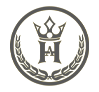
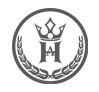
update

Changed region(s): [[0.0909, 0.0652, 0.9091, 0.9348], [0.3333, 0.1522, 0.697, 0.6957]]

diff --git a/index.html b/index.html
@@ -120,13 +120,13 @@
     <section class="hidden-bar">
         <div class="inner-box">
             <div class="upper-box">
-                <div class="nav-logo"><a href="index.html"><img src="images/logo-4.png" alt=""></a></div>
+                <div class="nav-logo"><a href="index.html"><img src="/images/logo-2.png" alt=""></a></div>
                 <div class="close-btn"><i class="icon fa fa-times"></i></div>
             </div>
 
             <div class="text-box">
                 <h4 class="title">HÙNG ANH</h4>
-                <div class="text">Dơn vị xây dựng và phát triển Website</div>
+                <div class="text">Đơn vị xây dựng và phát triển Website</div>
             </div>
 
             <ul class="contact-list-one">
@@ -717,10 +717,10 @@
         <div class="sponsors-outer">
             <!--clients carousel-->
             <ul class="clients-carousel owl-carousel owl-theme">
+                <li class="client-block-two"> <a href="https://hunganhdeveloper.github.io/Portfolio/"><img src="images/clients/2.png" alt=""></a> </li>
                 <li class="client-block-two"> <a href="https://hunganhdeveloper.github.io/Portfolio/"><img src="images/clients/2-1.png" alt=""></a> </li>
                 <li class="client-block-two"> <a href="https://hunganhdeveloper.github.io/Portfolio/"><img src="images/clients/2-2.png" alt=""></a> </li>
-                <li class="client-block-two"> <a href="https://hunganhdeveloper.github.io/Portfolio/"><img src="images/clients/2-3.png" alt=""></a> </li>
-                <li class="client-block-two"> <a href="https://hunganhdeveloper.github.io/Portfolio/"><img src="images/clients/2-4.png" alt=""></a> </li>
+                <li class="client-block-two"> <a href="https://hunganhdeveloper.github.io/Portfolio/"><img src="images/clients/3.png" alt=""></a> </li>
             </ul>
         </div>
     </div>
@@ -786,7 +786,7 @@
                 <div class="gallery-block-four">
                     <div class="inner-box">
                         <div class="image-box">
-                            <figure class="image"><img src="images/resource/gallery2-1.jpg" alt="Image"></a></figure>
+                            <figure class="image"><img src="images/resource/gallery2-4.jpg" alt="Image"></a></figure>
                         </div>
                     </div>
                 </div>
@@ -795,7 +795,7 @@
                 <div class="gallery-block-four">
                     <div class="inner-box">
                         <div class="image-box">
-                            <figure class="image"><img src="images/resource/gallery2-2.jpg" alt="Image"></a></figure>
+                            <figure class="image"><img src="images/resource/gallery2-5.jpg" alt="Image"></a></figure>
                         </div>
                     </div>
                 </div>
@@ -804,7 +804,7 @@
                 <div class="gallery-block-four">
                     <div class="inner-box">
                         <div class="image-box">
-                            <figure class="image"><img src="images/resource/gallery2-3.jpg" alt="Image"></a></figure>
+                            <figure class="image"><img src="images/resource/gallery2-6.jpg" alt="Image"></a></figure>
                         </div>
                     </div>
                 </div>
@@ -825,7 +825,7 @@
                     <div class="footer-column col-xl-6 col-lg-4 col-md-6 col-sm-12 order-xl-1">
                         <div class="footer-widget about-widget">
                             <div class="widget-content">
-                                <div class="logo"><a href="#home"><img src="images/logo-6.png" alt="" title="Wendola"></a></div>
+                                <div class="logo"><a href="#home"><img src="images/logo-7.png" alt="" title="Wendola"></a></div>
                                 <div class="text">Mọi sự hiện diện của quý khách là niềm vinh hạnh của chúng tôi !<br> Rất hân hạnh được đón tiếp !</div>
                             </div>
                         </div>
@@ -837,9 +837,9 @@
                             <h6 class="widget-title">Thông Tin Trao Đổi</h6>
                             <div class="widget-content">
                                 <ul class="contact-list-two">
-                                    <li><i class="icon fa fa-envelope"></i><a href="#"><span class="__cf_email__" data-cfemail="4e3b3d2b3c202f232b0e2a21232f2720602d2123">[email&#160;protected]</span></a></li>
-                                    <li><i class="icon fa fa-mobile"></i><a href="#">+(84) 343 081 048</a></li>
-                                    <li><i class="icon fa fa-map-marker-alt"></i><a href="#">Website</a></li>
+                                    <li><i class="icon fa fa-envelope"></i><a href="https://mail.google.com/mail/u/0/?tab=rm&ogbl#inbox?compose=lqrsljcHmxFMwDRkGjPQggJGGGKbNplMKtQKWHmhBqzsxKrksszVWdBnwwTfrjSVDxMdJzSSRxXQxlknK"><span class="__cf_email__" data-cfemail="4e3b3d2b3c202f232b0e2a21232f2720602d2123">Hunganhlux@gmail.com</span></a></li>
+                                    <li><i class="icon fa fa-mobile"></i><a href="tel:034301048">+(84) 343 081 048</a></li>
+                                    <li><i class="icon fa fa-map-marker-alt"></i><a href="https://hunganhdeveloper.github.io/Portfolio/">Website</a></li>
                                 </ul>
                             </div>
                         </div>
@@ -851,8 +851,8 @@
                             <h6 class="widget-title">Mạng Xã Hội</h6>
                             <div class="widgets-content">
                                 <ul class="social-icon-one">
-                                    <li><a href="#"><i class="icon fab fa-facebook-f"></i></a></li>
-                                    <li><a href="#"><i class="icon fab fa-google-plus"></i></a></li>
+                                    <li><a href="https://www.facebook.com/HungAnh999/?locale=vi_VN"><i class="icon fab fa-facebook-f"></i></a></li>
+                                    <li><a href="https://mail.google.com/mail/u/0/?tab=rm&ogbl#inbox?compose=lqrsljcHmxFMwDRkGjPQggJGGGKbNplMKtQKWHmhBqzsxKrksszVWdBnwwTfrjSVDxMdJzSSRxXQxlknK"><i class="icon fab fa-google-plus"></i></a></li>
                                     <li><a href="#"><i class="icon fab fa-twitter"></i></a></li>
                                 </ul>
                             </div>

diff --git a/css/style.css b/css/style.css
@@ -6178,6 +6178,7 @@ Section Title
 ====================================================================
 
 ***/
+
 .news-section {
   position: relative;
   padding: 120px 0;
@@ -6382,229 +6383,6 @@ Section Title
     margin-left: 0;
   }
 }
-
-/*** 
-
-====================================================================
-/*** 
-
-====================================================================
-    Fun Fact Section
-====================================================================
-
-***/
-.fun-fact-section {
-  position: relative;
-  padding: 120px 0 50px;
-}
-
-.counter-block {
-  position: relative;
-  margin-bottom: 70px;
-}
-.counter-block:first-child .inner:before {
-  display: none;
-}
-@media (max-width: 1199.98px) {
-  .counter-block:nth-child(odd) .inner::before {
-    display: none;
-  }
-}
-.counter-block .inner {
-  position: relative;
-  -webkit-transition: all 300ms ease;
-  transition: all 300ms ease;
-}
-.counter-block .inner:before {
-  content: "";
-  position: absolute;
-  top: 45px;
-  left: -15px;
-  width: 13px;
-  height: 80px;
-  background-image: url(../images/icons/divider-4.png);
-}
-@media (max-width: 767.98px) {
-  .counter-block .inner:before {
-    display: none;
-  }
-}
-.counter-block .inner:hover .count-box {
-  color: var(--theme-color7);
-  -webkit-transform: translateY(10px);
-          transform: translateY(10px);
-}
-.counter-block .content {
-  position: relative;
-  text-align: center;
-}
-.counter-block .content .icon-flower-30 {
-  position: absolute;
-  top: -25px;
-  left: 50%;
-  -webkit-transform: translateX(-50%);
-          transform: translateX(-50%);
-}
-.counter-block .count-box {
-  font-size: 80px;
-  line-height: 1em;
-  font-weight: 600;
-  font-family: var(--title-font);
-  color: var(--theme-color8);
-  margin-bottom: 20px;
-  -webkit-transition: all 300ms ease;
-  transition: all 300ms ease;
-}
-.counter-block .counter-title {
-  font-size: var(--body-font-size);
-  line-height: 1.6em;
-  font-weight: 400;
-  color: var(--theme-color-dark);
-  font-family: var(--text-font);
-  margin-bottom: 0;
-}
-
-/*** 
-
-====================================================================
-    Pricing Section
-====================================================================
-
-***/
-.pricing-section {
-  position: relative;
-  padding: 120px 0 90px;
-}
-.pricing-section .icon-leaves-36 {
-  margin: 20px auto 0;
-}
-
-.pricing-block {
-  position: relative;
-  margin-bottom: 30px;
-}
-.pricing-block .inner-box {
-  position: relative;
-  padding-left: 100px;
-}
-@media (max-width: 1199.98px) {
-  .pricing-block .inner-box {
-    padding-left: 0;
-    background-color: #252c43;
-    outline: 1px solid #cdcdcd;
-    border: 9px solid var(--theme-color-light);
-    padding: 20px 20px 50px;
-  }
-}
-.pricing-block .inner-box:hover .image-box .image img {
-  -webkit-transform: scale(1.1);
-          transform: scale(1.1);
-}
-.pricing-block .inner-box:hover .content-box {
-  -webkit-box-shadow: 0 10px 30px rgba(0, 0, 0, 0.1);
-          box-shadow: 0 10px 30px rgba(0, 0, 0, 0.1);
-}
-.pricing-block .inner-box .icon-flower-29 {
-  position: absolute;
-  bottom: 10px;
-  right: 25px;
-  z-index: 1;
-}
-.pricing-block .inner-box .image-box .image {
-  position: absolute;
-  top: 45px;
-  left: 0;
-  z-index: 3;
-  overflow: hidden;
-}
-@media (max-width: 1199.98px) {
-  .pricing-block .inner-box .image-box .image {
-    position: relative;
-    top: 0;
-  }
-}
-.pricing-block .inner-box .image-box .image img {
-  width: 100%;
-  -webkit-transition: all 300ms ease;
-  transition: all 300ms ease;
-}
-.pricing-block .inner-box .content-box {
-  position: relative;
-  background-color: #252c43;
-  padding: 60px 40px 55px 210px;
-  outline: 1px solid #cdcdcd;
-  border: 9px solid var(--theme-color-light);
-  -webkit-transition: all 300ms ease;
-  transition: all 300ms ease;
-}
-@media (max-width: 1399.98px) {
-  .pricing-block .inner-box .content-box {
-    padding-left: 190px;
-    padding-right: 20px;
-  }
-}
-@media (max-width: 1199.98px) {
-  .pricing-block .inner-box .content-box {
-    padding: 0;
-    border: none;
-    outline: none;
-    background-color: transparent;
-    padding-top: 20px;
-  }
-}
-.pricing-block .inner-box .content-box .title {
-  color: var(--theme-color-light);
-}
-.pricing-block .inner-box .content-box .features-list {
-  position: relative;
-  margin-bottom: 30px;
-  z-index: 2;
-}
-.pricing-block .inner-box .content-box .features-list li {
-  position: relative;
-  padding-left: 25px;
-  font-size: 16px;
-  color: var(--theme-color-light);
-  margin-bottom: 10px;
-}
-@media (max-width: 575.98px) {
-  .pricing-block .inner-box .content-box .features-list li {
-    font-size: 14px;
-  }
-}
-.pricing-block .inner-box .content-box .features-list li i {
-  position: absolute;
-  left: 0;
-  top: 5px;
-  font-size: 18px;
-  text-align: center;
-  width: 14px;
-  height: 16px;
-  line-height: 16px;
-  color: var(--theme-color8);
-}
-.pricing-block .inner-box .content-box .price {
-  color: var(--theme-color-light);
-  font-size: 26px;
-  font-weight: 600;
-  margin-bottom: 10px;
-  font-family: var(--text-font);
-  z-index: 2;
-}
-.pricing-block .inner-box .content-box .price span {
-  font-size: 16px;
-  font-weight: 400;
-}
-.pricing-block .inner-box .content-box .theme-btn {
-  padding: 14px 34px;
-  z-index: 2;
-}
-@media (max-width: 1199.98px) {
-  .pricing-block .inner-box .content-box .theme-btn {
-    margin-left: 0;
-  }
-}
-
 /*** 
 
 ====================================================================
